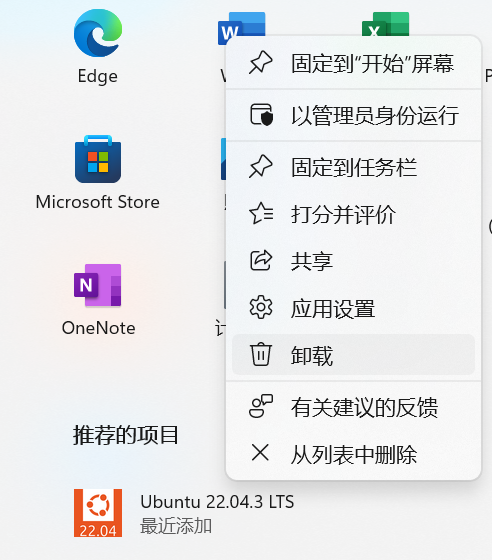
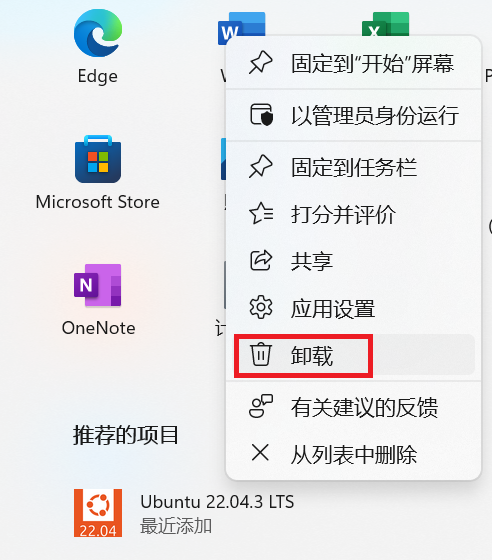
WSL内容更新

Changed region(s): [[0.4573, 0.5768, 0.7622, 0.6982]]

diff --git a/docs/杂项/Win11家庭版配置WSL2/1.md b/docs/杂项/Win11家庭版配置WSL2/1.md
@@ -89,12 +89,12 @@ https://wslstorestorage.blob.core.windows.net/wslblob/wsl_update_x64.msi
 
 ## 4. 安装包清理
 
-先打开开始菜单，可见刚才安装的发行版，选择卸载。
+先打开开始菜单，可见刚才安装的发行版，选择卸载（见下图）。
   
 卸载的作用为清除上述C盘中WindowsApps目录中的安装包，不会对D盘的WSL2造成影响。
 
 ![](image/9.jpg)
 
-此外， `D:\WSL2-Ubuntu-22.04\install.tar.gz`  也可删除，其内容已经解压安装。
+此外， `D:\WSL2-Ubuntu-22.04\install.tar.gz`  也可手动从文件夹中删除，其内容已经解压安装。
 
 至此，WSL2 安装完毕。
